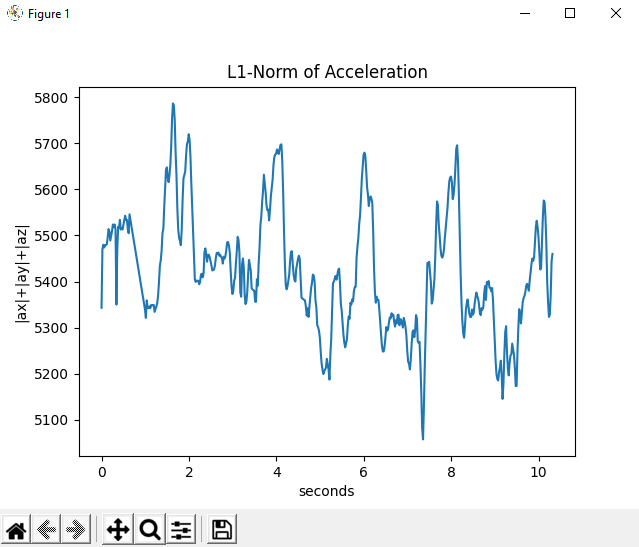
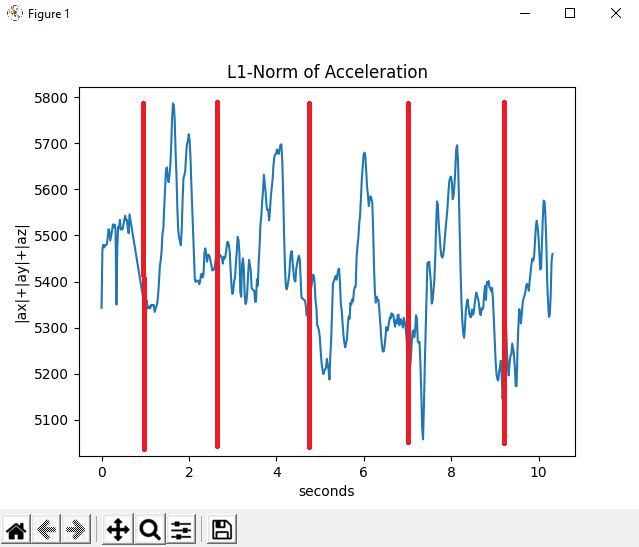
Finished Lab 5

diff --git a/Python/Lab 5/README.md b/Python/Lab 5/README.md
@@ -1,0 +1,98 @@
+Jean Gorby Calicdan
+A15955623
+
+# Lab #4
+
+# Tutorial Review
+## Tutorial 1: Offline Data Analysis
+In order to analyze data, the data must be in a form that the programming language can read from. Comma-separated values or CSV files are common in data analysis as it allows for congregation of values all within one file. Numpy allows programmers to both save and load these CSV files with ease. <br>
+This tutorial goes over how one can record data and ultimately save it into one CSV file. The main code allows users to start a 10 second window of data gathering and save this data into a CSV file. <br>
+Here is one set of data that I have gathered with the graph partitioned into each step taken: <br>
+![accelerometer.csv](./images/good%20data.png)
+
+## Tutorial 2: Digital Signal Processing (DSP)
+Digital signal processing is a process and taking signals and data and transforming them in order to obtain data is much more readable, understandable, and easier to analyze. The reason this is done is because, oftentimes, real time raw data is not the greatest as it can be noisy. <br>
+
+### L1 Norm
+Since we are working with 3 dimensions when it comes to working with the accelerometer, it is important to unify this data into one single piece of workable data as it would be too taxing to work on each dimension individually. All pieces of data from now on will be analyzed with the L1 Norm considered from the get go.
+
+### Moving Average Filter
+Due to the noise that is brought up earlier, it can often be misleading to read data and notice that there are a lot of bits that are unimportant. The moving average filter, like its name suggests computes a moving average through the given data. This makes it so that the figure ends up looking much smoother.
+
+### Detrending
+Since the accelerometer is affected by all three axes, an effect that can come from this is the effect of gravity affecting the device as we move it around. Detrending is a method which uses the previous defined filter, the moving average filter, in order to remove this gravity effect. Here is an example showing the data becoming more centered near the middle in order to essentially remove the effect of gravity: <br>
+![detrending](./images/detrend.png)
+
+### Gradients
+Gradients are the first step into detecting peaks within this data. As we know from calculus, the derivative at a peak will be zero. Gradients allow us to see where peaks occur by checking where the the data crosses zero. Here is the gradient in action: <br>
+![gradient](./images/gradient.png)<br>
+It is noticeable that the gradient makes the signal noisy again. This may be a case of the data having changes in rate of change. As we know, the derivative is essentially a measure of how fast a signal is changing. I would guess that the signal has some micro changes in speeds that may not be noticeable originally.
+
+### Power Spectral Density
+This is one of the first steps into getting into the frequency domain. The power spectral density shows us the power distribution of the signal within the frequncy domain. By looking at the psd, one can see at which frequency most action is occuring.<br>
+![psd](./images/psd.png)<br>
+**Important Questions**
+- If the sampling rate was 120Hz, the maximum observalbe frequency component would be 60Hz, which is also the Nyquist frequency.
+- If the signal bandwidth is composed of 0-10Hz, it would be recommended to use at least 10Hz to sample it according to the Nyquist Sampling Theorem.
+- In general practice, it is recommended to go above this minimum requirement.
+
+### Low-pass & High-pass Filtering
+The moving average filter from earlier is a kind of low pass filter but isn't quite the greatest due to it being a weak Finite Impulse Response filter. A real low-pass filter would do a greater job at removing the higher frequencies as the moving average filter was attempting to do. <br>
+![low-pass](./images/lpfiltered.png) <br>
+The low-pass filter succeeds in smoothing out the original signal much better than before. A problem arises, however, since the signal is now shifted horizontally and a flat value exists at the beginning, which is called the filter transient. This can be solved by essentially filtering the signal a second time in order to eliminate these two problems. <br>
+![filtfilt](./images/filtfilt.png)
+
+### Post Processing
+This is the part after cleaning up the signal where we can finally extract useful information from the data. For our particular use case, finding peaks within our data is doing to be the most important part as these peaks ultimately represent activity. Scipy has a great function which makes this trask fairly trivial as long as we provide it our own thresholds.
+
+### Modules
+With all these DSP techniques that we have learned, creating a module will allow us to reuse a lot of these functions without ever having to redefine them. Their implementation and functionality is similar to that of a class but we dont have to instantiate objects for them, which is convenient, but also makes sense.
+
+## Tutorial 3: Pedometer Class
+The pedometer class will be incredibly useful for detecting steps as well as other similar capabilities later on. The class itself has three methods, two of which serve as a way to add data and reset, with the third one, ```process()``` being its most important one. This method will take care of all the processing required in order to return the number of steps a user has taken. The fact that this was implemented as a class method also allows the programmer to effectively tweak this as they desire in order to achieve better results without rewriting any code.
+
+# Challenges
+
+## Challenge 1
+
+### YouTube Video Links:
+Steps predicted on online Jean Gorby data: https://youtu.be/ROnRcIuwRpY
+
+Steps predicted on online Haozhang data: https://youtu.be/l8FVqOhoHv0
+
+Pedometer counting steps real time: https://youtu.be/Rc84JXiVhHo
+
+### Task Description:
+Challenge 1 challenges us to take the Pedometer class started in the tutorials and complete it in order to create a more reliable step counter. This challenge allows for real time data gathering and processing in order to display steps as soon as they are taken, as shown in the video. The general logic follows that Python sends a message that it is ready to receive data and the MCU will do just that. Python then utilizes the completed Pedometer class in order to process the incoming data and update the display. 
+
+### Processing Algorithm:
+AX, AY, AZ >> L1-Norm >> Moving Average >> Detrend >> PSD analysis >> Cutoff calculation >> Low-pass filter creation >>
+Low-pass filter >> Gradient >> Moving Average >> Detrend >> Scaling >> Count Peaks
+
+### Algorithm Explanation:
+
+| ![Red LED 1Hz](./images/ECE16_Lab5_Ch1_Moving_Average1.jpg) | ![Blue LED 5Hz](./images/ECE16_Lab5_Ch1_Detrended1.jpg) | ![Yellow LED 25Hz](./images/ECE16_Lab5_Ch1_PSD.jpg) |
+|-----------------------------------------------------------|-------------------------------------------------------|---------------------------------------------------|
+
+| ![Red LED 1Hz](./images/ECE16_Lab5_Ch1_Low_Pass_Filtered.jpg) | ![Blue LED 5Hz](./images/ECE16_Lab5_Ch1_Gradient.jpg) | ![Yellow LED 25Hz](./images/ECE16_Lab5_Ch1_PSD.jpg) |
+|-------------------------------------------------------------|-----------------------------------------------------|---------------------------------------------------|
+
+The algorithm provided by the tutorial was a great start but was ultimately not the most reliable and needed some tweaking. It follows a fairly similar flow at the beginning where the AX, AY, AZ values are collected from the MCU and these are used in order to calculate the L1-Norm. This data is then used in order to calculate the moving average in order to smooth this signal for the first time. Detrending serves as a way to extract drift as explained in the tutorial section. <br>
+The PSD analysis and how it is used is where our program begins to differ from the tutorial. The power spectal density will be used in order to filter out walking frequency and eliminate higher noise frequency in order to ensure that the data isn't disturbed and misled. A cutoff frequency is calculated by finding the peak in the PSD in order to realize what the frequency of the walking is. This value is used with an additional 10% for some leeway, but also allows for adaptation to differing walking frequencies, depending on the person. <br>
+The low pass filter creation is there in order to create necessary filter constants which take into account the new cutoff frequency. This filter will be used in order to gain a clearer signal as usual. Something different we do as well, is use the gradient step a little later into the process. We take the gradient, perform the general smoothing process in the beginning, and then use this signal in order to find the peaks. The signal is scaled up by 10 for the purpose of making it easier to observe the peaks. Finally, the find peaks function is used in order to finally retrieve all the steps based on the defined lower and upper threshold.
+
+## Challenge 2
+
+### YouTube Video Links
+
+Step vs Jump Algorithm: https://youtu.be/0tMdGp0yPFI 
+
+Route with 2 steps: https://youtube.com/shorts/tDp2HHsb_sM?feature=share
+
+### Task Description:
+In Challenge 2, it was asked to expand upon the pedometer to not only count steps, but to also count jumps. For this particular challenge, a very specific logic flow must be followed. First, the MCU must have initialized some data structure in order to act as a buffer for data. We used the **CircularBuffer** library within the arduino and initialized three of these, each with a size of 256 elements, in order to store all three accelerometer values. Once the MCU is connected to Python (by running ```challenge2_activity_recognition.py```), the MCU begins collecting data and storing it in these buffers. With our configuration, the MCU is sampling the accelerometer at 50Hz, which means that these buffers represent around 5 seconds worth of data. Afterwards, the user must click a button in order to send this data to Python in order for it to be analyzed. Python utilizes the modified Pedometer class in order to detect steps and jumps, as well as differentiate between them. After processing, the Python sends a message back to the MCU to update the step and jump count displayed on the OLED. The cycle can be continued again as the MCU will go back to collecting data and waiting for another button push.
+
+### Algorithm Explanation
+The algorithm used for this challenge is the exact same as the one used for challenge 1 with one major change. In order to establish whether a peak is a step or a jump, a different low and high threshold must be set for jump. Since there are three major activities i.e. no activity, step, or jump, the first two were already taken into account from challenge 1. Jump simply meant that the values exceed the threshold for step. <br>
+Here is an image showing a plot of how a step is differentiated from a jump with the lines representing the set thresholds. <br>
+![Step vs Jump Thresholds](./images/step_vs_jump.png)
